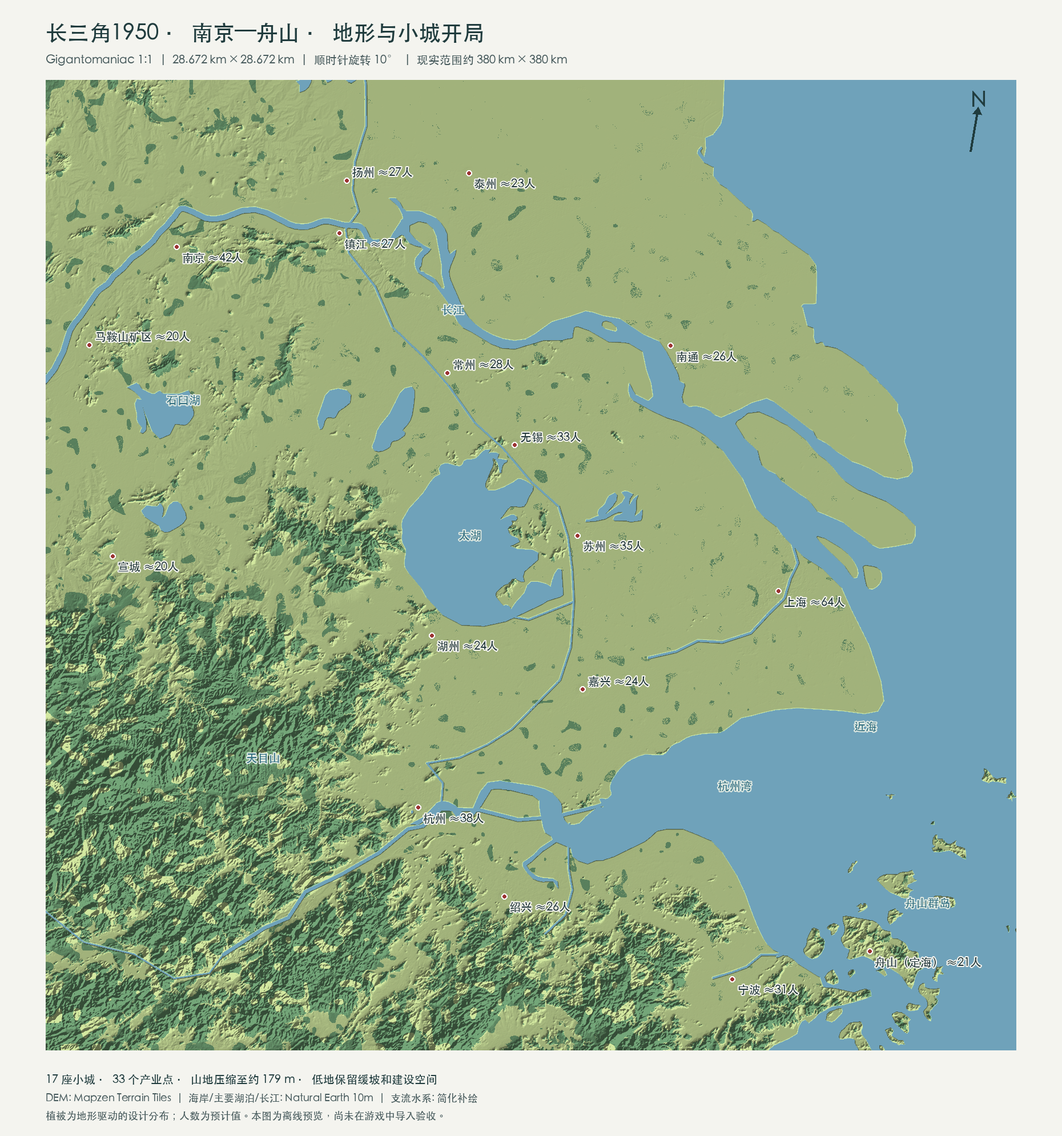
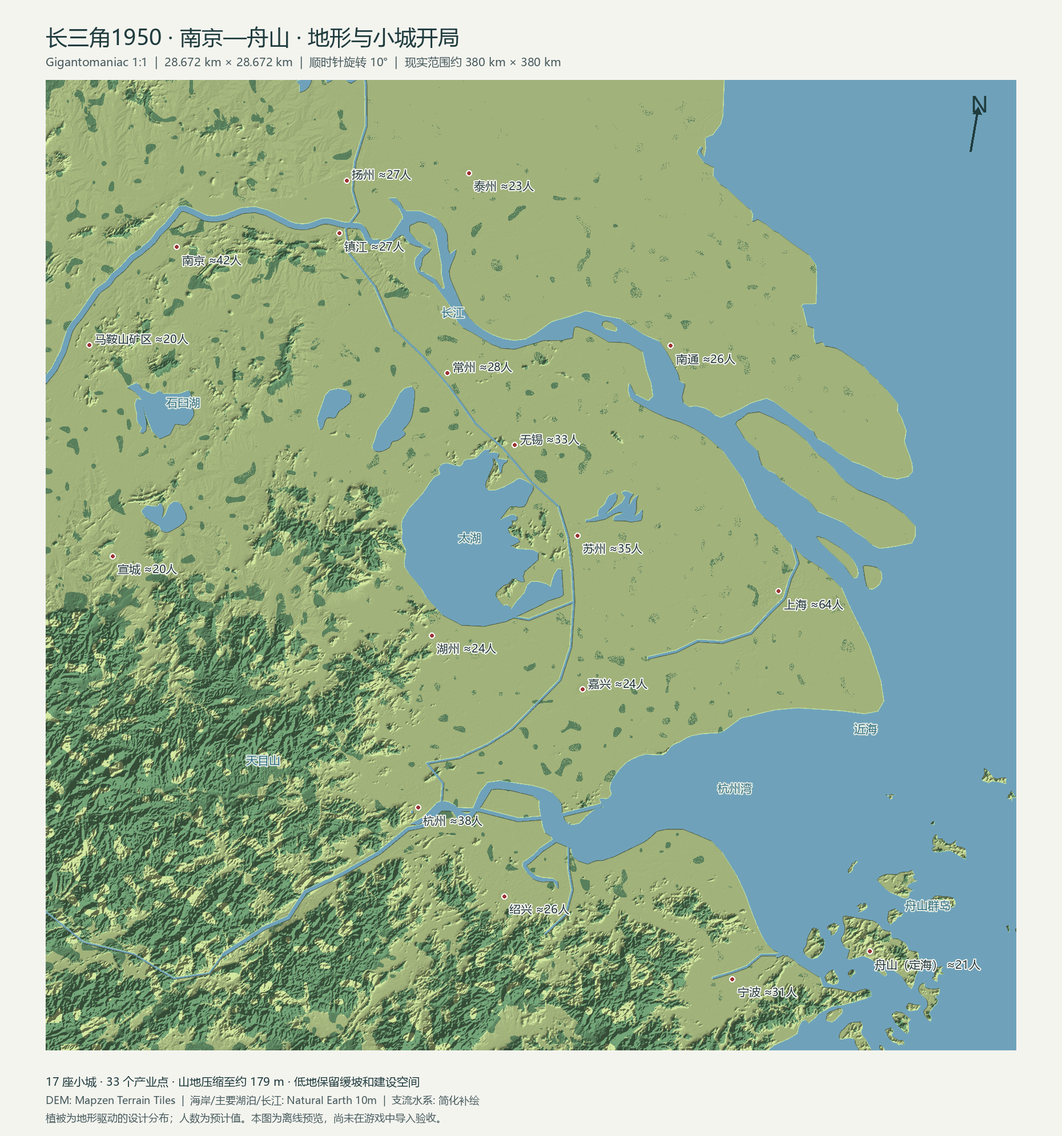
Clarify heightmap import and add industry name restoration

diff --git a/tests/check_package.py b/tests/check_package.py
@@ -100,6 +100,28 @@ if lua:
         ],
         check=True,
     )
+    names_fixture = args.cache / "check_names_fixture.lua"
+    names_fixture.write_text(
+        "return {\n"
+        + ",\n".join(
+            "{ name = "
+            + json.dumps(p["id"] + " " + p["name"], ensure_ascii=False)
+            + f', x = {p["x"]:.2f}, y = {p["y"]:.2f}, '
+            + f'fileName = "::/industries/{p["key"]}/{p["key"]}.con" }}'
+            for p in layout["industries"]
+        )
+        + "\n}",
+        encoding="utf-8",
+    )
+    subprocess.run(
+        [
+            lua,
+            str(REPO / "tests/check_industry_names.lua"),
+            str(root / "docs/恢复产业名称.txt"),
+            str(names_fixture),
+        ],
+        check=True,
+    )
 else:
     print("Lua executable unavailable: native syntax check not run")
 print(

diff --git a/scripts/build_map.py b/scripts/build_map.py
@@ -320,6 +320,20 @@ def export_lua():
     (OUT / "towns_industries/YRD_1950.lua").write_text(
         "\n".join(lines), encoding="utf-8"
     )
+    names = []
+    for p in industries:
+        name = json.dumps(p["id"] + " " + p["name"], ensure_ascii=False)
+        key = p["key"]
+        names.append(
+            f'{{ name = {name}, x = {p["x"]:.2f}, y = {p["y"]:.2f}, '
+            f'fileName = "::/industries/{key}/{key}.con" }}'
+        )
+    command = (REPO / "scripts/restore_names.lua").read_text(encoding="utf-8")
+    command = command.replace("{{INDUSTRIES}}", ", ".join(names))
+    (OUT / "docs/恢复产业名称.txt").write_text(
+        " ".join(line.strip() for line in command.splitlines()) + "\n",
+        encoding="utf-8",
+    )
 
 
 def csvs():

diff --git a/docs/methodology.md b/docs/methodology.md
@@ -14,6 +14,8 @@
 
 本包借鉴已记录的格式和测试结论，独立制作地理、地形和布局；没有运行 Studio 的 Windows 图形软件，也没有把作者实测冒称为本包在游戏中的验收。
 
+v0.3.1 另核对本机游戏的 `base/content/gui.zip` 中 `gui/map_editor/map_editor.tl` 与 API 类型声明：高度图导入按钮会调用地形替换命令并记录 `Replacing terrain`；生态应用读取现有高度图。产业导入只复制位置、旋转、是否水上、资源路径和标签，不读取名称。包内的一次性名称命令使用 `Industry.construction`、`Construction.transf:getTransl()` 与 `api.cmd.makeEntitySetNameCmd`，按最终位置和资源路径匹配后改名。API 存在和 Lua 模拟检查不等于游戏内命令验收。
+
 ## 高程
 
 [Mapzen Terrain Tiles / AWS Open Data](https://registry.opendata.aws/terrain-tiles/)。实际下载 {{TILE_COUNT}} 张 zoom {{ZOOM}} Terrarium 瓦片，来自 `elevation-tiles-prod`，全部下载完成。RGB 解码公式为 `R×256 + G + B/256 − 32768`。
@@ -33,6 +35,8 @@
 天然湖泊保留；现代水库湖面排除。主要湖形与长江中心线来自上述地理数据，岸线和河道为现代概化数据。其余水系为地理定位的简化补绘。OpenStreetMap 查询未取得可用数据，成品不使用也不声称使用了 OSM 河岸或森林资料。
 
 植被不是遥感分类结果，而是按高程、低地、固定种子随机斑块及建设预留区制作的设计分布。用于重现“山林—平原—水岸”的总体关系。
+
+温带生态灰度 26、77、128 分别对应 Biome 0 的开阔草地、Biome 1 的草地树群、Biome 2 的深色草地。岸边使用深色草地作视觉过渡，不表示原生湿地分类。所报树群群落比例是蒙版区域比例，不是游戏实际树冠覆盖率。
 
 ## 人口
 
@@ -63,3 +67,5 @@
 v0.2.0 将范围从 560 km 收至 350 km，保留南京—宁波走廊；DEM 从 zoom 10 提升至 zoom 12，工作网格从 3585 提升至 7169。原始高程采样更细，但海岸与湖形仍使用 Natural Earth 概化数据；没有把水系补绘的概化程度冒称为新的测绘精度。地形、航道加宽、生态分布与城市放置均重新计算。
 
 v0.3.0 扩展至 380 km 并顺时针旋转 10°，将舟山（定海）、舟山主岛、朱家尖及邻近海域纳入。保留原有 16 城和 32 个产业，增加定海城市及 W04 舟山近海渔场。全部复用旧版 1806 张 zoom 12 高程瓦片和三份 Natural Earth 文件，仅补下载 1056 张瓦片；派生地形重新生成。
+
+v0.3.1 保持范围、高程编码、水位、城市、产业和生态分布，补充“预览后仍需点击导入”的检查步骤、产业名称恢复命令及生态灰度说明。用户反馈的游戏日志存在生态应用记录，却缺少高度图替换记录；安装的 PNG 与 v0.3.0 发布包 SHA256 一致，约 27.4% 的像素低于 0 m。这支持“高度图未实际应用”的判断，尚未通过游戏导出地形最终确认。当前本地检出缺少原始缓存，按旧清单补齐缺失来源并核对 SHA256；没有删除旧缓存或改用旧派生高程。

diff --git a/README.md b/README.md
@@ -19,7 +19,7 @@
 
 1. 下载上方 ZIP 并完整解压。无需安装 Python、地图生成 MOD 或 TPF3 Map Studio。
 2. 打开解压目录 `YRD_1950` 中的 `使用说明.md`。
-3. 按说明开启实验地图尺寸，在编辑器中依次导入地形、生态蒙版、城市与产业。
+3. 按说明开启实验地图尺寸，在编辑器中依次导入地形、生态蒙版、城市与产业。高度图预览后，仍须点击底部 **Import / 导入**；确认实际地图出现河湖和海面后再继续。
 4. 检查城际道路，保存地图，再从该地图开始游戏。
 
 导入时使用以下设置：
@@ -35,6 +35,8 @@
 | 开局年份 | **1950** |
 
 这是编辑器导入素材包，需自行导入并保存为地图。包内没有预建车站、铁路、港口和车辆。
+
+原生布局导入会保留城市名称，产业名称由游戏随机生成。v0.3.1（尚未发布）新增导入后恢复产业名称的一次性控制台命令。森林蒙版表示设计的草地树群区域，游戏会生成斑块树群，不代表实测森林覆盖。
 
 ## 开局可以做什么
 

diff --git a/docs/development.md b/docs/development.md
@@ -39,6 +39,8 @@ python scripts/package.py
 
 如需检查 Lua 语法，先安装 `lua` 并确保命令可用。`tests/check_package.py` 在未找到 `lua` 时会跳过语法检查，并输出提示。
 
+该检查也会模拟执行包内的产业名称恢复命令，核对名称、重复执行、位置和类型不符、重复匹配及异步失败计数。命令由 `scripts/restore_names.lua` 模板和最终布局生成，游戏内执行另需验收。
+
 ## 配置与布局
 
 | 文件 | 修改内容 |
